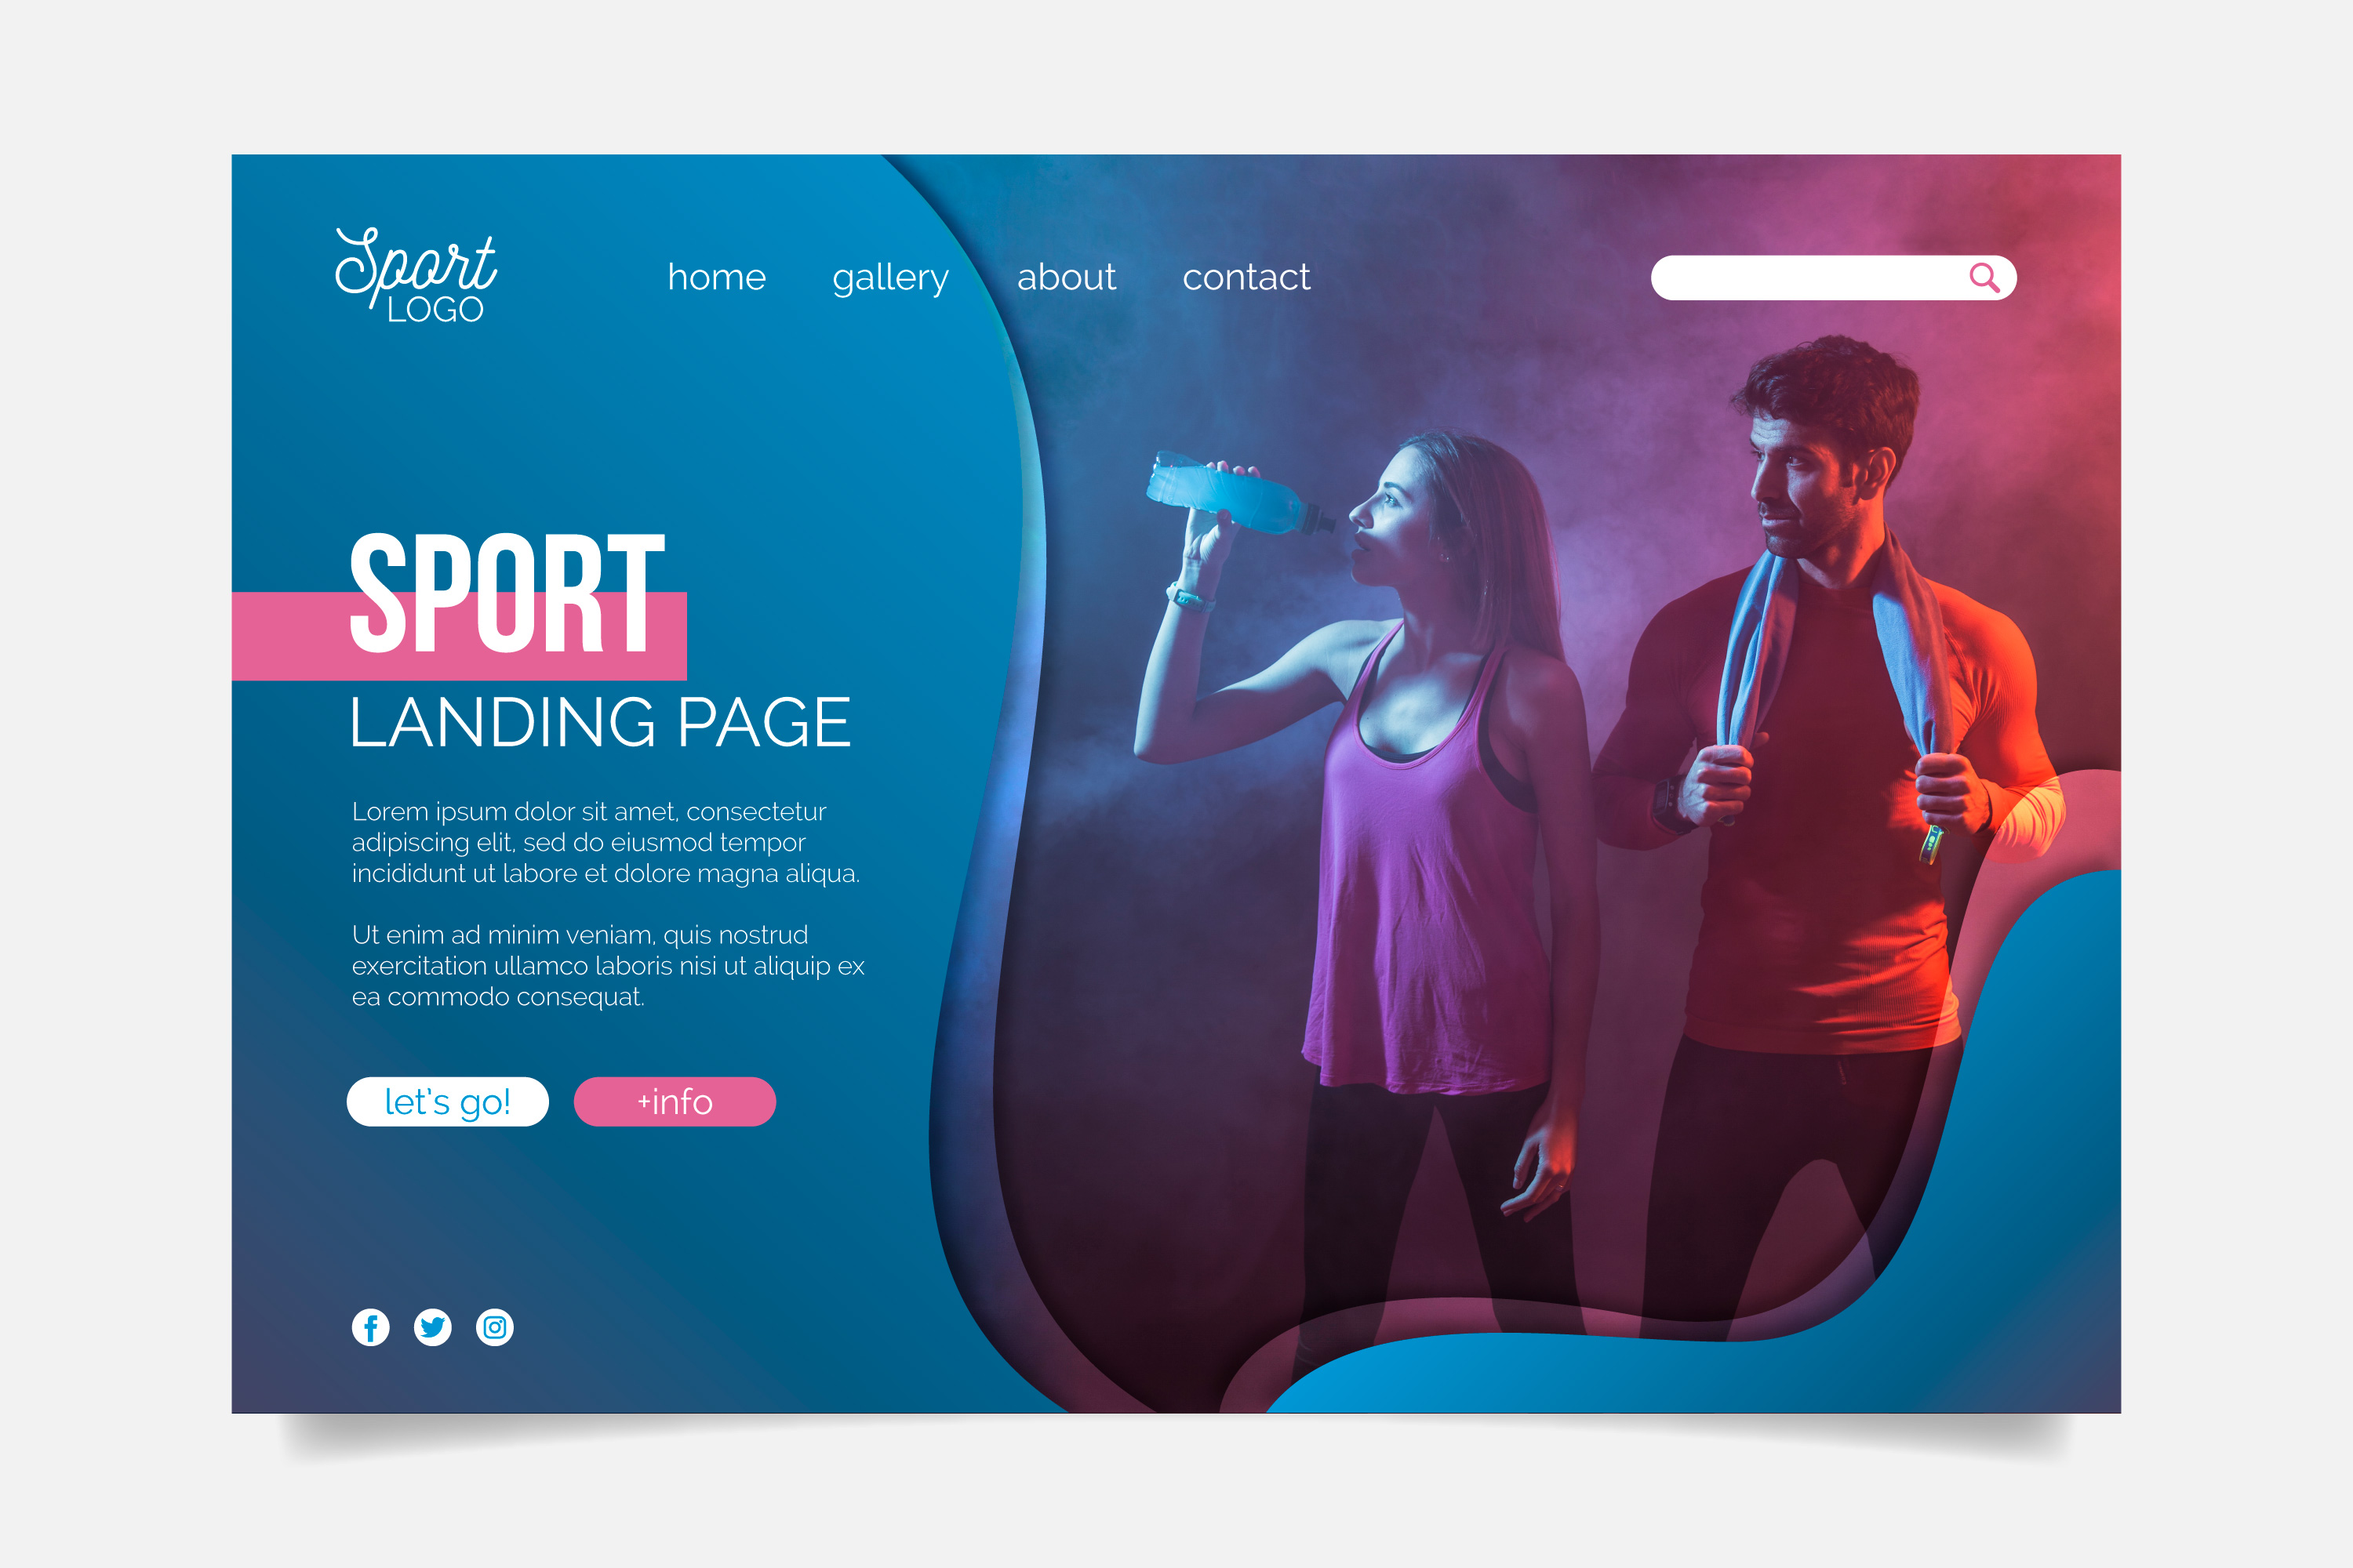
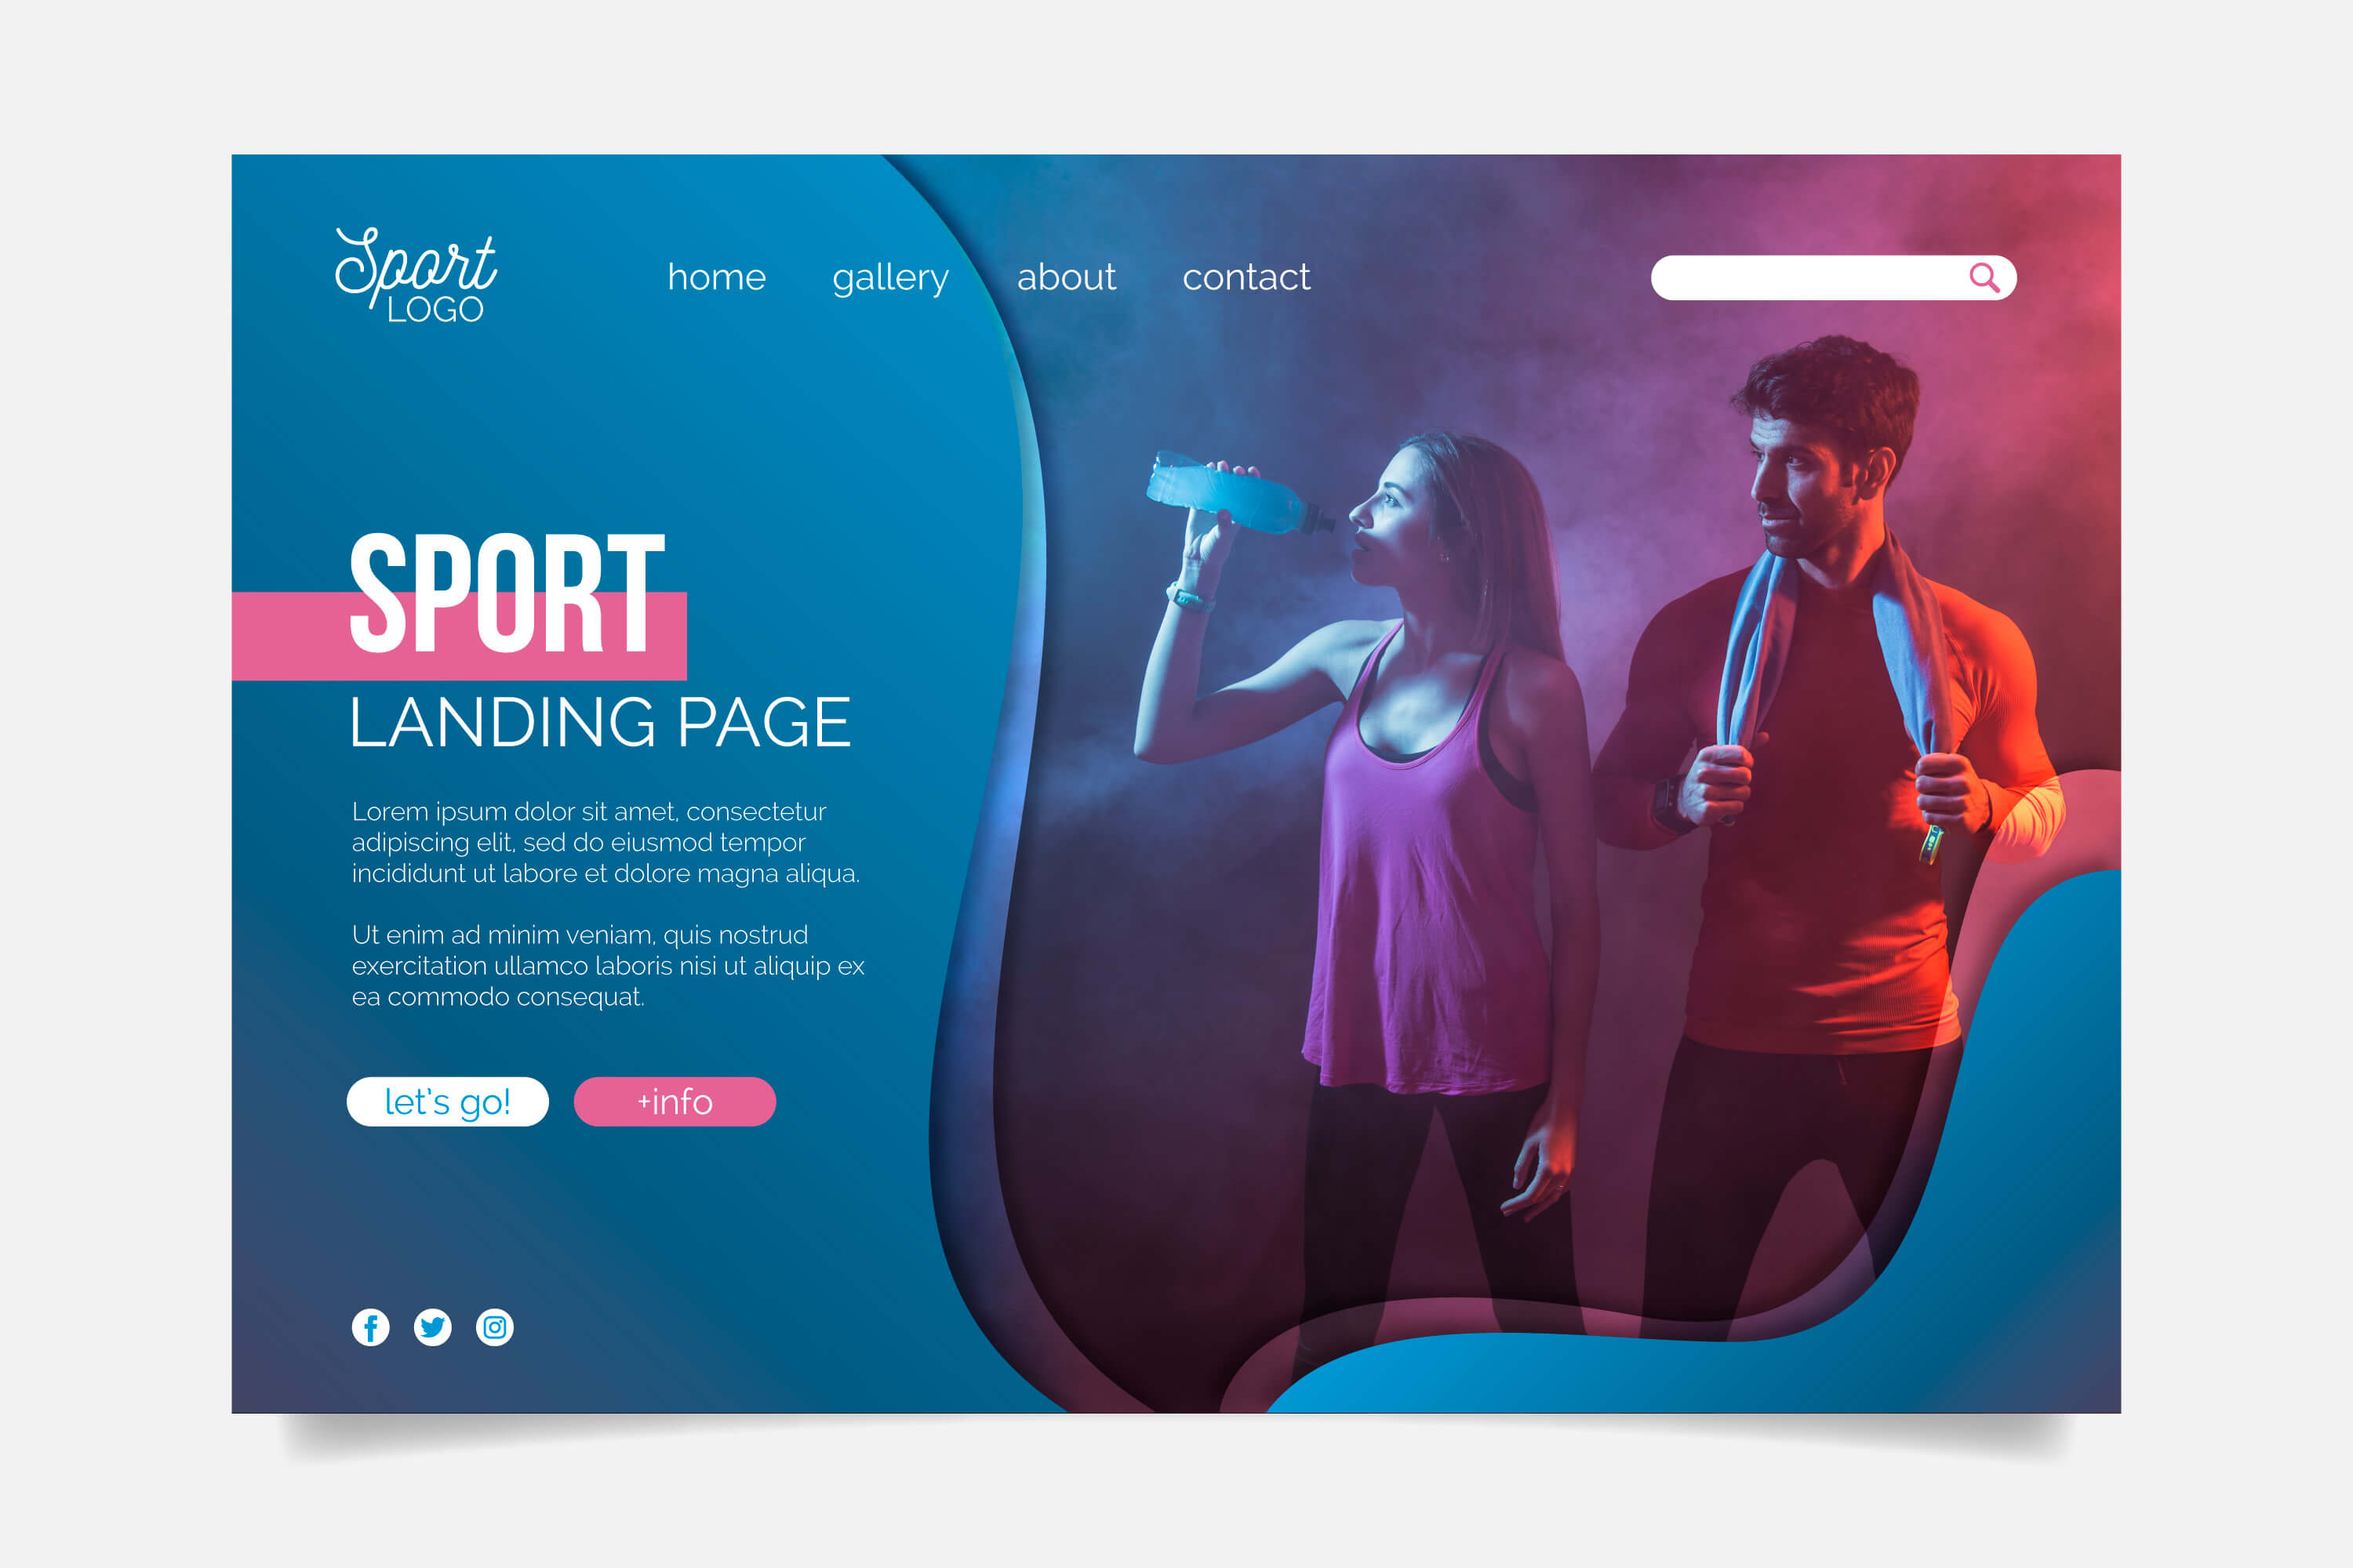
se optimizo todas las imagenes para web

Changed region(s): [[0.155, 0.589, 0.341, 0.651], [0.155, 0.496, 0.341, 0.558], [0.155, 0.155, 0.217, 0.186]]

diff --git a/index.html b/index.html
@@ -14,7 +14,6 @@
   <link rel="stylesheet" href="css/bootstrap.css">
   <!-- Material Design Bootstrap -->
   <link rel="stylesheet" href="css/mdb.min.css">
-  <!-- Your custom styles (optional) -->
   <link rel="stylesheet" href="css/style.css">
   <!-- Hover css -->
   <link rel="stylesheet" href="css/hover.css">

diff --git a/css/style.css b/css/style.css
@@ -227,8 +227,8 @@ html {
 
 .parallax {
   background: url("../img/keyboard.jpg");
-  background-blend-mode:hard-light;
   background-color:rgba(230, 10, 156, 0.644);
+  background-blend-mode:hard-light;
   background-attachment: fixed;
   background-position: center right;
   background-repeat: no-repeat;
